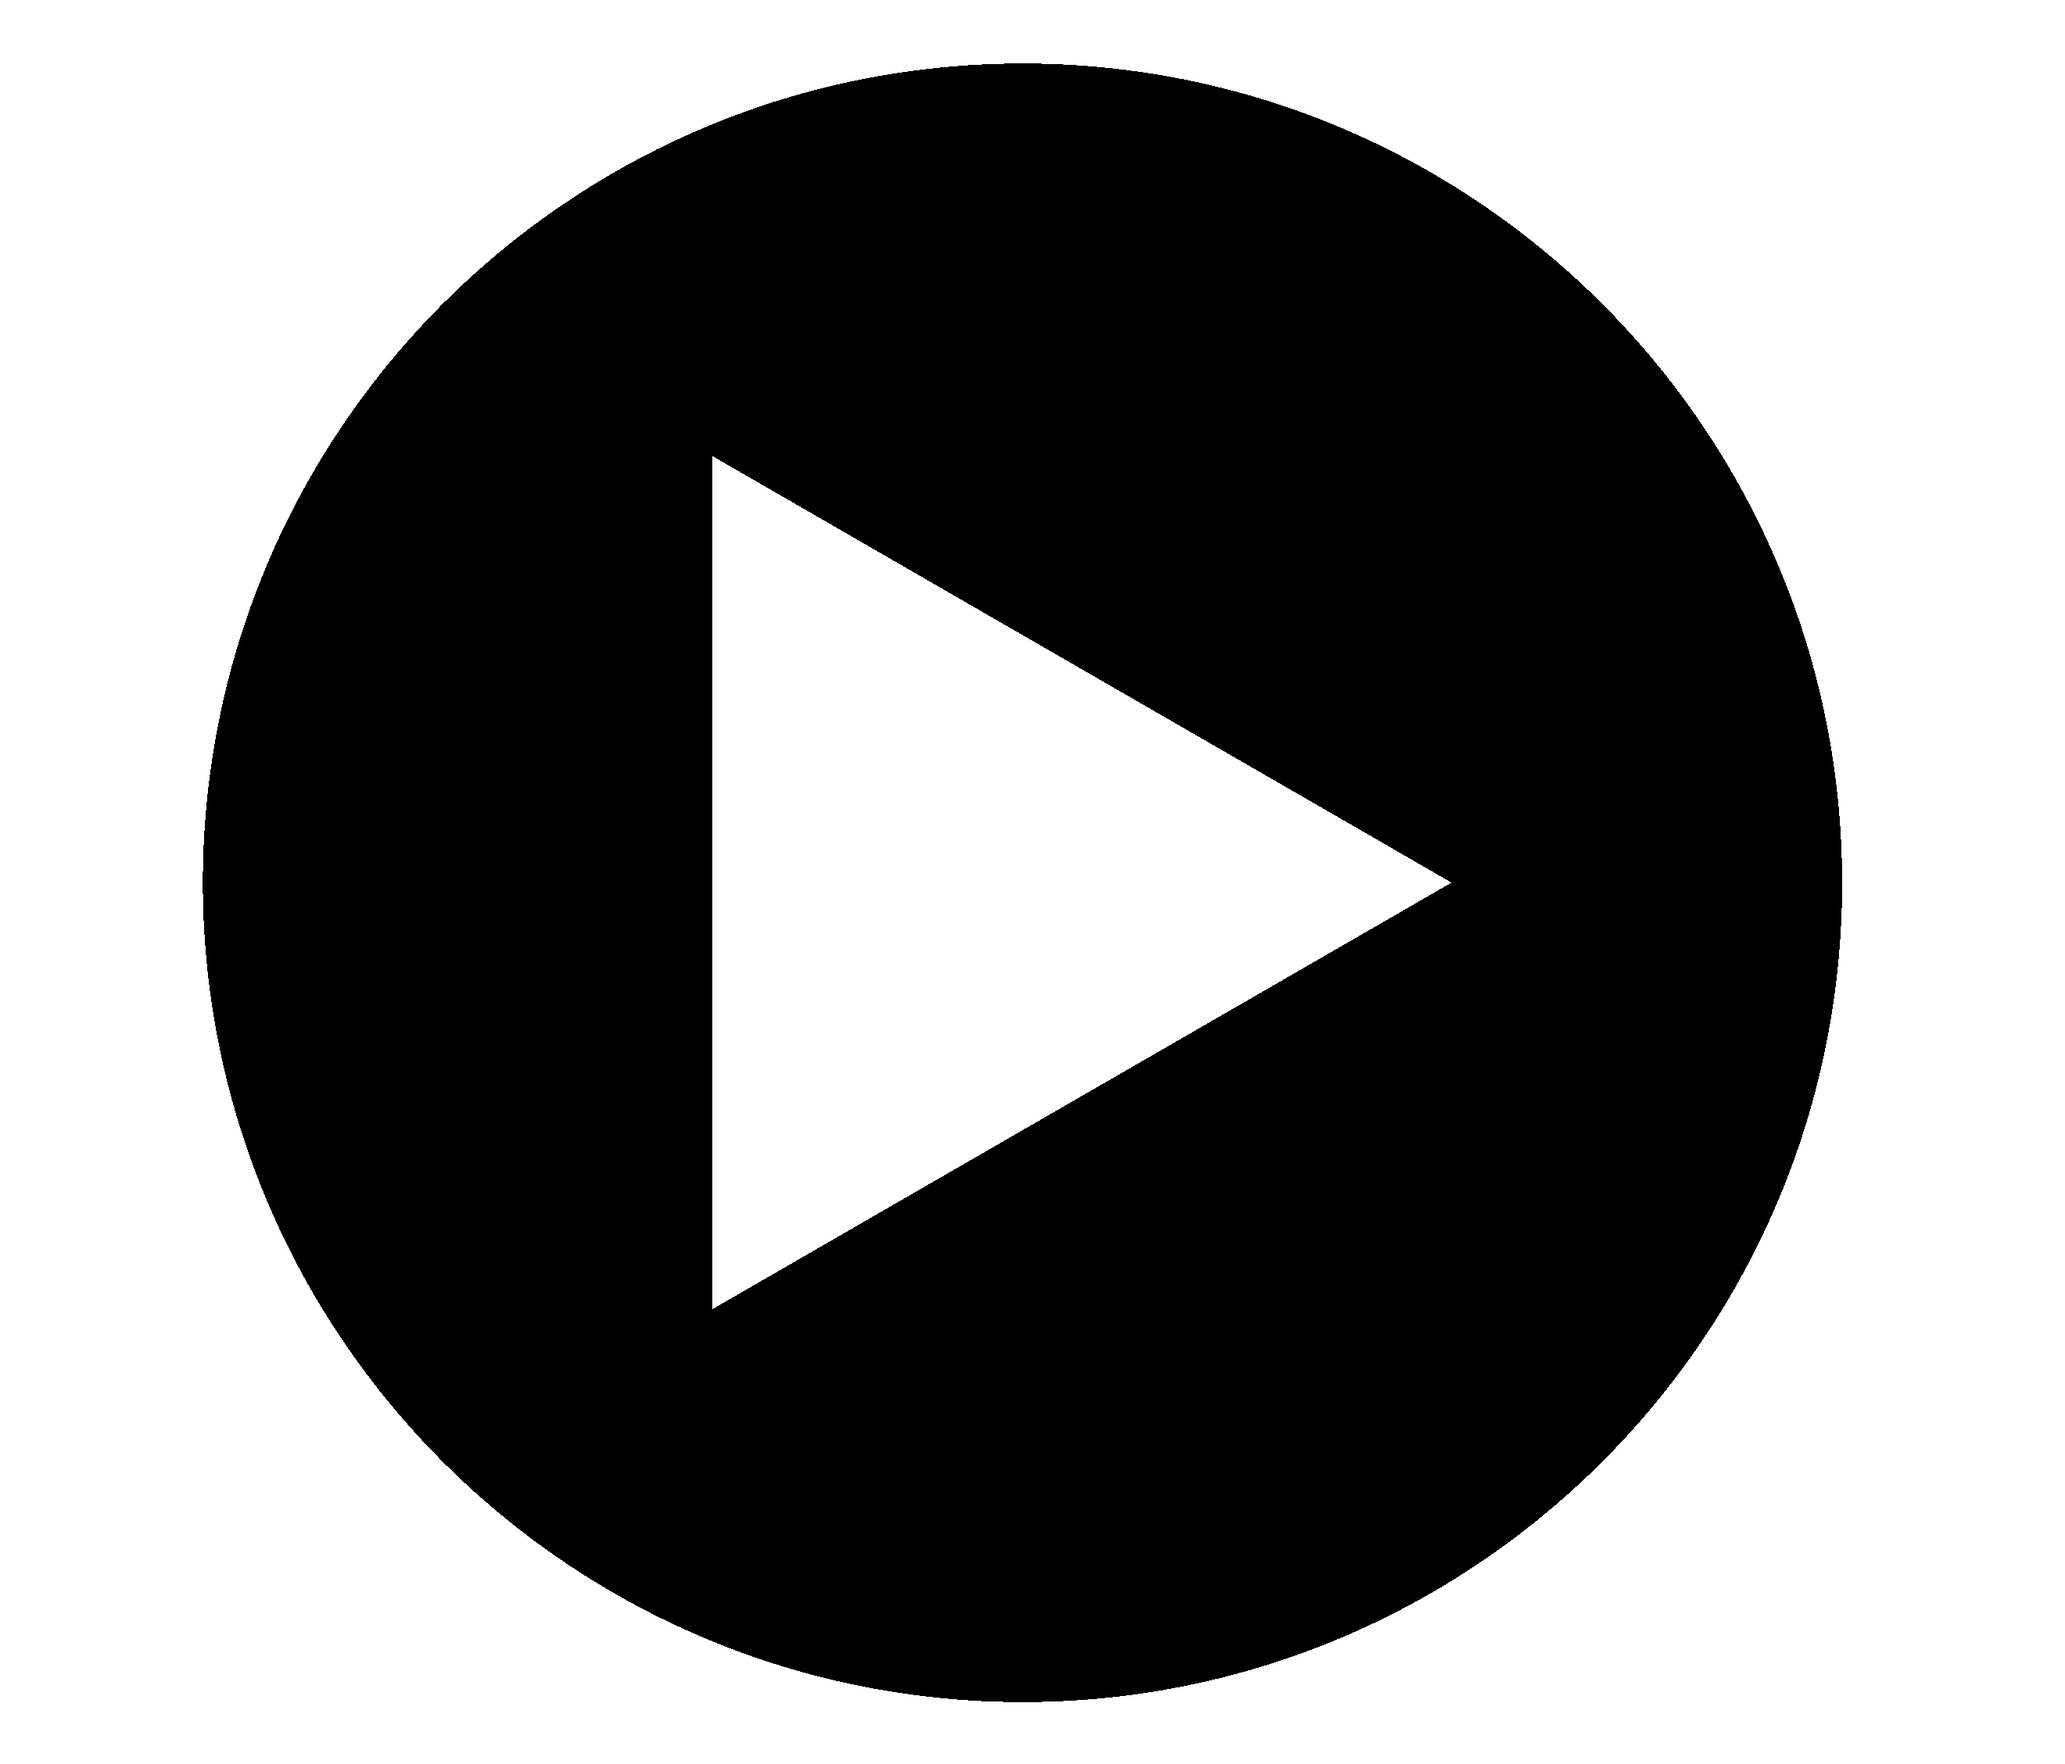
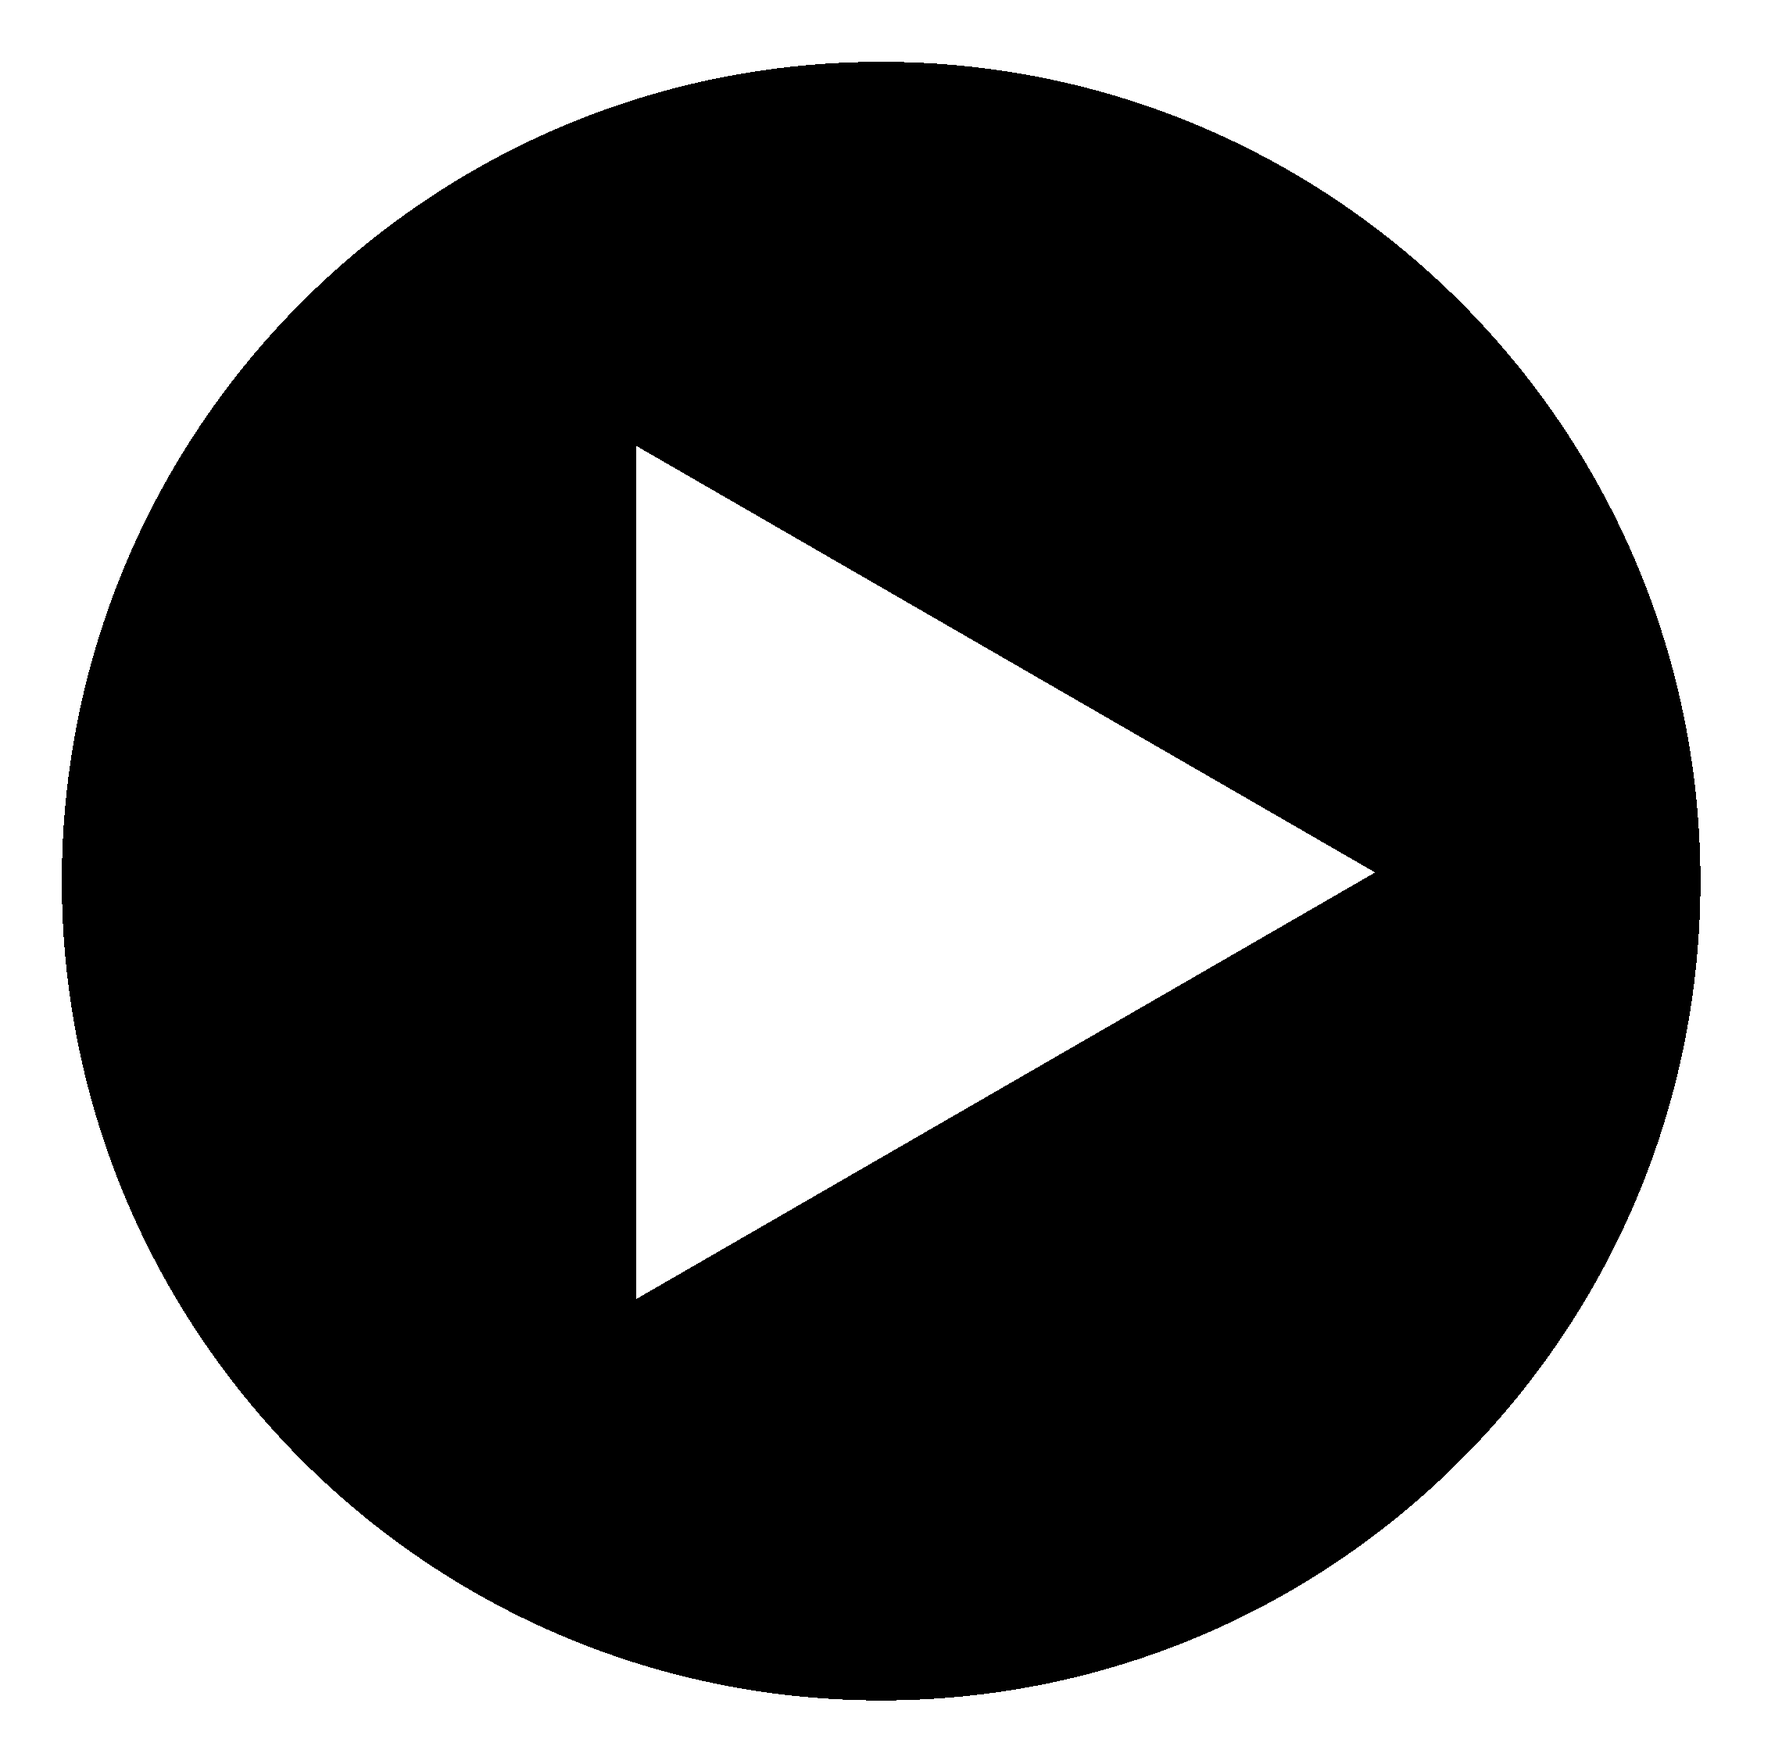
Implemented play button functionality.

diff --git a/src/application/controller/FXMLController.java b/src/application/controller/FXMLController.java
@@ -18,6 +18,8 @@ import javafx.scene.control.SelectionMode;
 import javafx.scene.control.TableColumn;
 import javafx.scene.control.TableView;
 import javafx.scene.control.cell.PropertyValueFactory;
+import javafx.scene.image.Image;
+import javafx.scene.image.ImageView;
 import javafx.stage.DirectoryChooser;
 import javafx.stage.FileChooser;
 import javafx.stage.Stage;
@@ -67,10 +69,20 @@ public class FXMLController
 	@FXML
 	private MenuItem sortFavorites;
 	
+	@FXML
+	private ImageView playButton;
+	
 	private MusicPlayer player;
 	private MusicLibrary library;
 
 	private Stage stage;
+	
+	
+
+	
+	private static final Image pauseImage = new Image("file:res/pause.png");
+	private static final Image playImage = new Image("file:res/play.png");
+	
 	
 	@FXML
 	public void initialize()
@@ -86,8 +98,7 @@ public class FXMLController
 		tableView.getSelectionModel().setSelectionMode(SelectionMode.MULTIPLE);
 		tableView.setOnMouseClicked(event -> {
 			if (event.getClickCount() == 2) {
-				Song song = tableView.getSelectionModel().getSelectedItem();
-				player.play(song);
+				playSelectedSong();
 			}
 		});
 		tableView.setItems(library.getSongData());
@@ -125,8 +136,7 @@ public class FXMLController
 			@Override
 			public void handle(ActionEvent arg0)
 			{
-				Song song = tableView.getSelectionModel().getSelectedItem();
-				player.play(song);
+				playSelectedSong();
 			}
 		});
 		
@@ -134,7 +144,7 @@ public class FXMLController
 			@Override
 			public void handle(ActionEvent arg0)
 			{
-				player.pause();
+				pauseSong();
 			}
 		});
 		
@@ -168,6 +178,15 @@ public class FXMLController
 				library.setImageVisible();
 			}
 		});
+		
+		playButton.setOnMouseClicked(event -> {
+			if (playButton.getImage() == playImage) {
+				playSelectedSong();
+			}
+			else {
+				pauseSong();
+			}
+		});
 	}
 
 	private File chooseFile(Stage stage) {
@@ -181,6 +200,17 @@ public class FXMLController
 		DirectoryChooser directoryChooser = new DirectoryChooser();
 		directoryChooser.setTitle("Select the Songs folder");
 		return directoryChooser.showDialog(stage);
+	}
+	
+	private void playSelectedSong() {
+		Song song = tableView.getSelectionModel().getSelectedItem();
+		player.play(song);
+		playButton.setImage(pauseImage);
+	}
+	
+	private void pauseSong() {
+		player.pause();
+		playButton.setImage(playImage);
 	}
 	
 	public void setStage(Stage stage) {

diff --git a/src/application/views/Main.java b/src/application/views/Main.java
@@ -34,7 +34,7 @@ import javafx.scene.layout.VBox;
 public class Main extends Application
 {
 	public static final int WINDOW_WIDTH = 500; //Temporary
-	public static final int WINDOW_HEIGHT = 300; //Temporary
+	public static final int WINDOW_HEIGHT = 400; //Temporary
 	
 	private FXMLController controller;
 	
